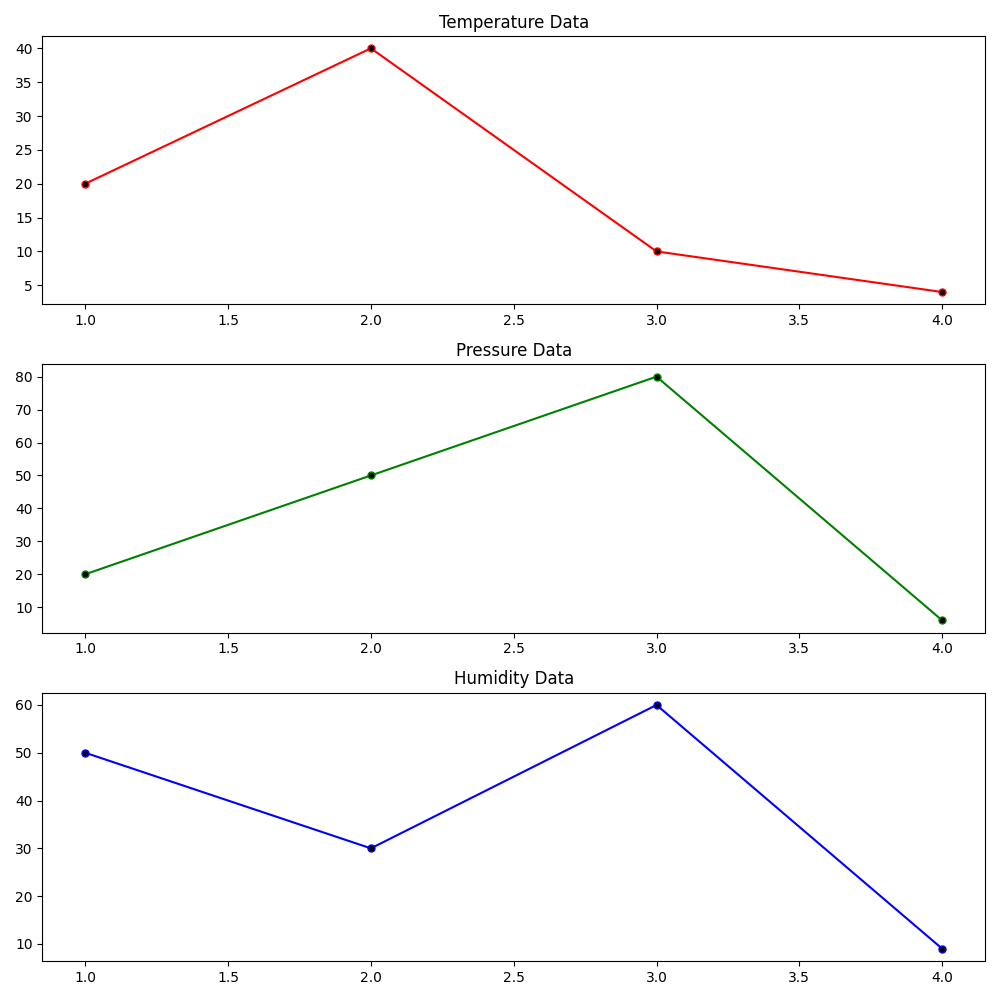
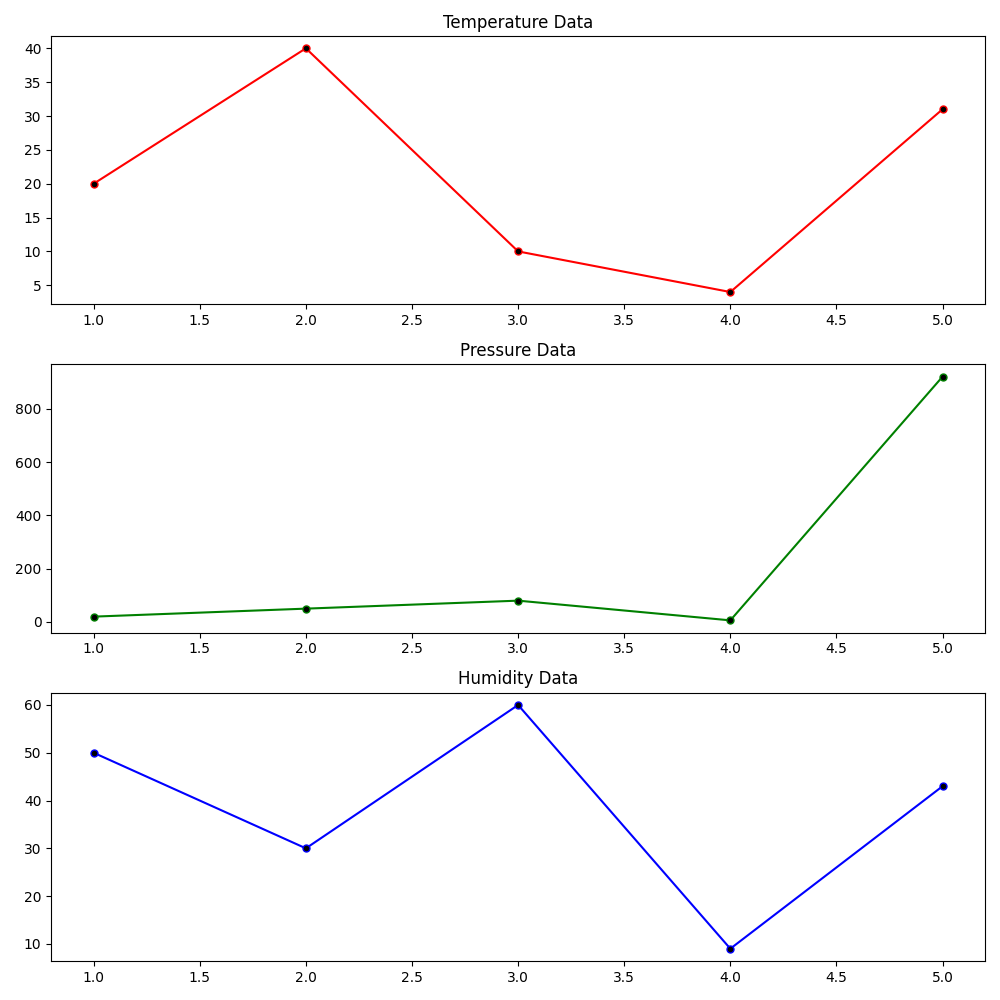
cmmt from py

diff --git a/test1.py b/test1.py
@@ -2,6 +2,7 @@
 # importing the required module
 import matplotlib.pyplot as plt
 from git import Repo
+import random
 
 figure, axis = plt.subplots(3,1,figsize=(10,10))
 # x axis values
@@ -10,6 +11,11 @@ x = [1,2,3,4]
 y = [20,40,10,4]
 y1= [20,50,80,6]
 y2 =[50,30,60,9]
+
+y.append(random.randint(10,40))
+y1.append(random.randint(900,1000))
+y2.append(random.randint(10,90))
+x.append(x[len(x)-1]+1)
 
 axis[0].plot(x, y, color = 'r', marker='o', markerfacecolor='black', markersize=5)
 axis[0].set_title("Temperature Data")
